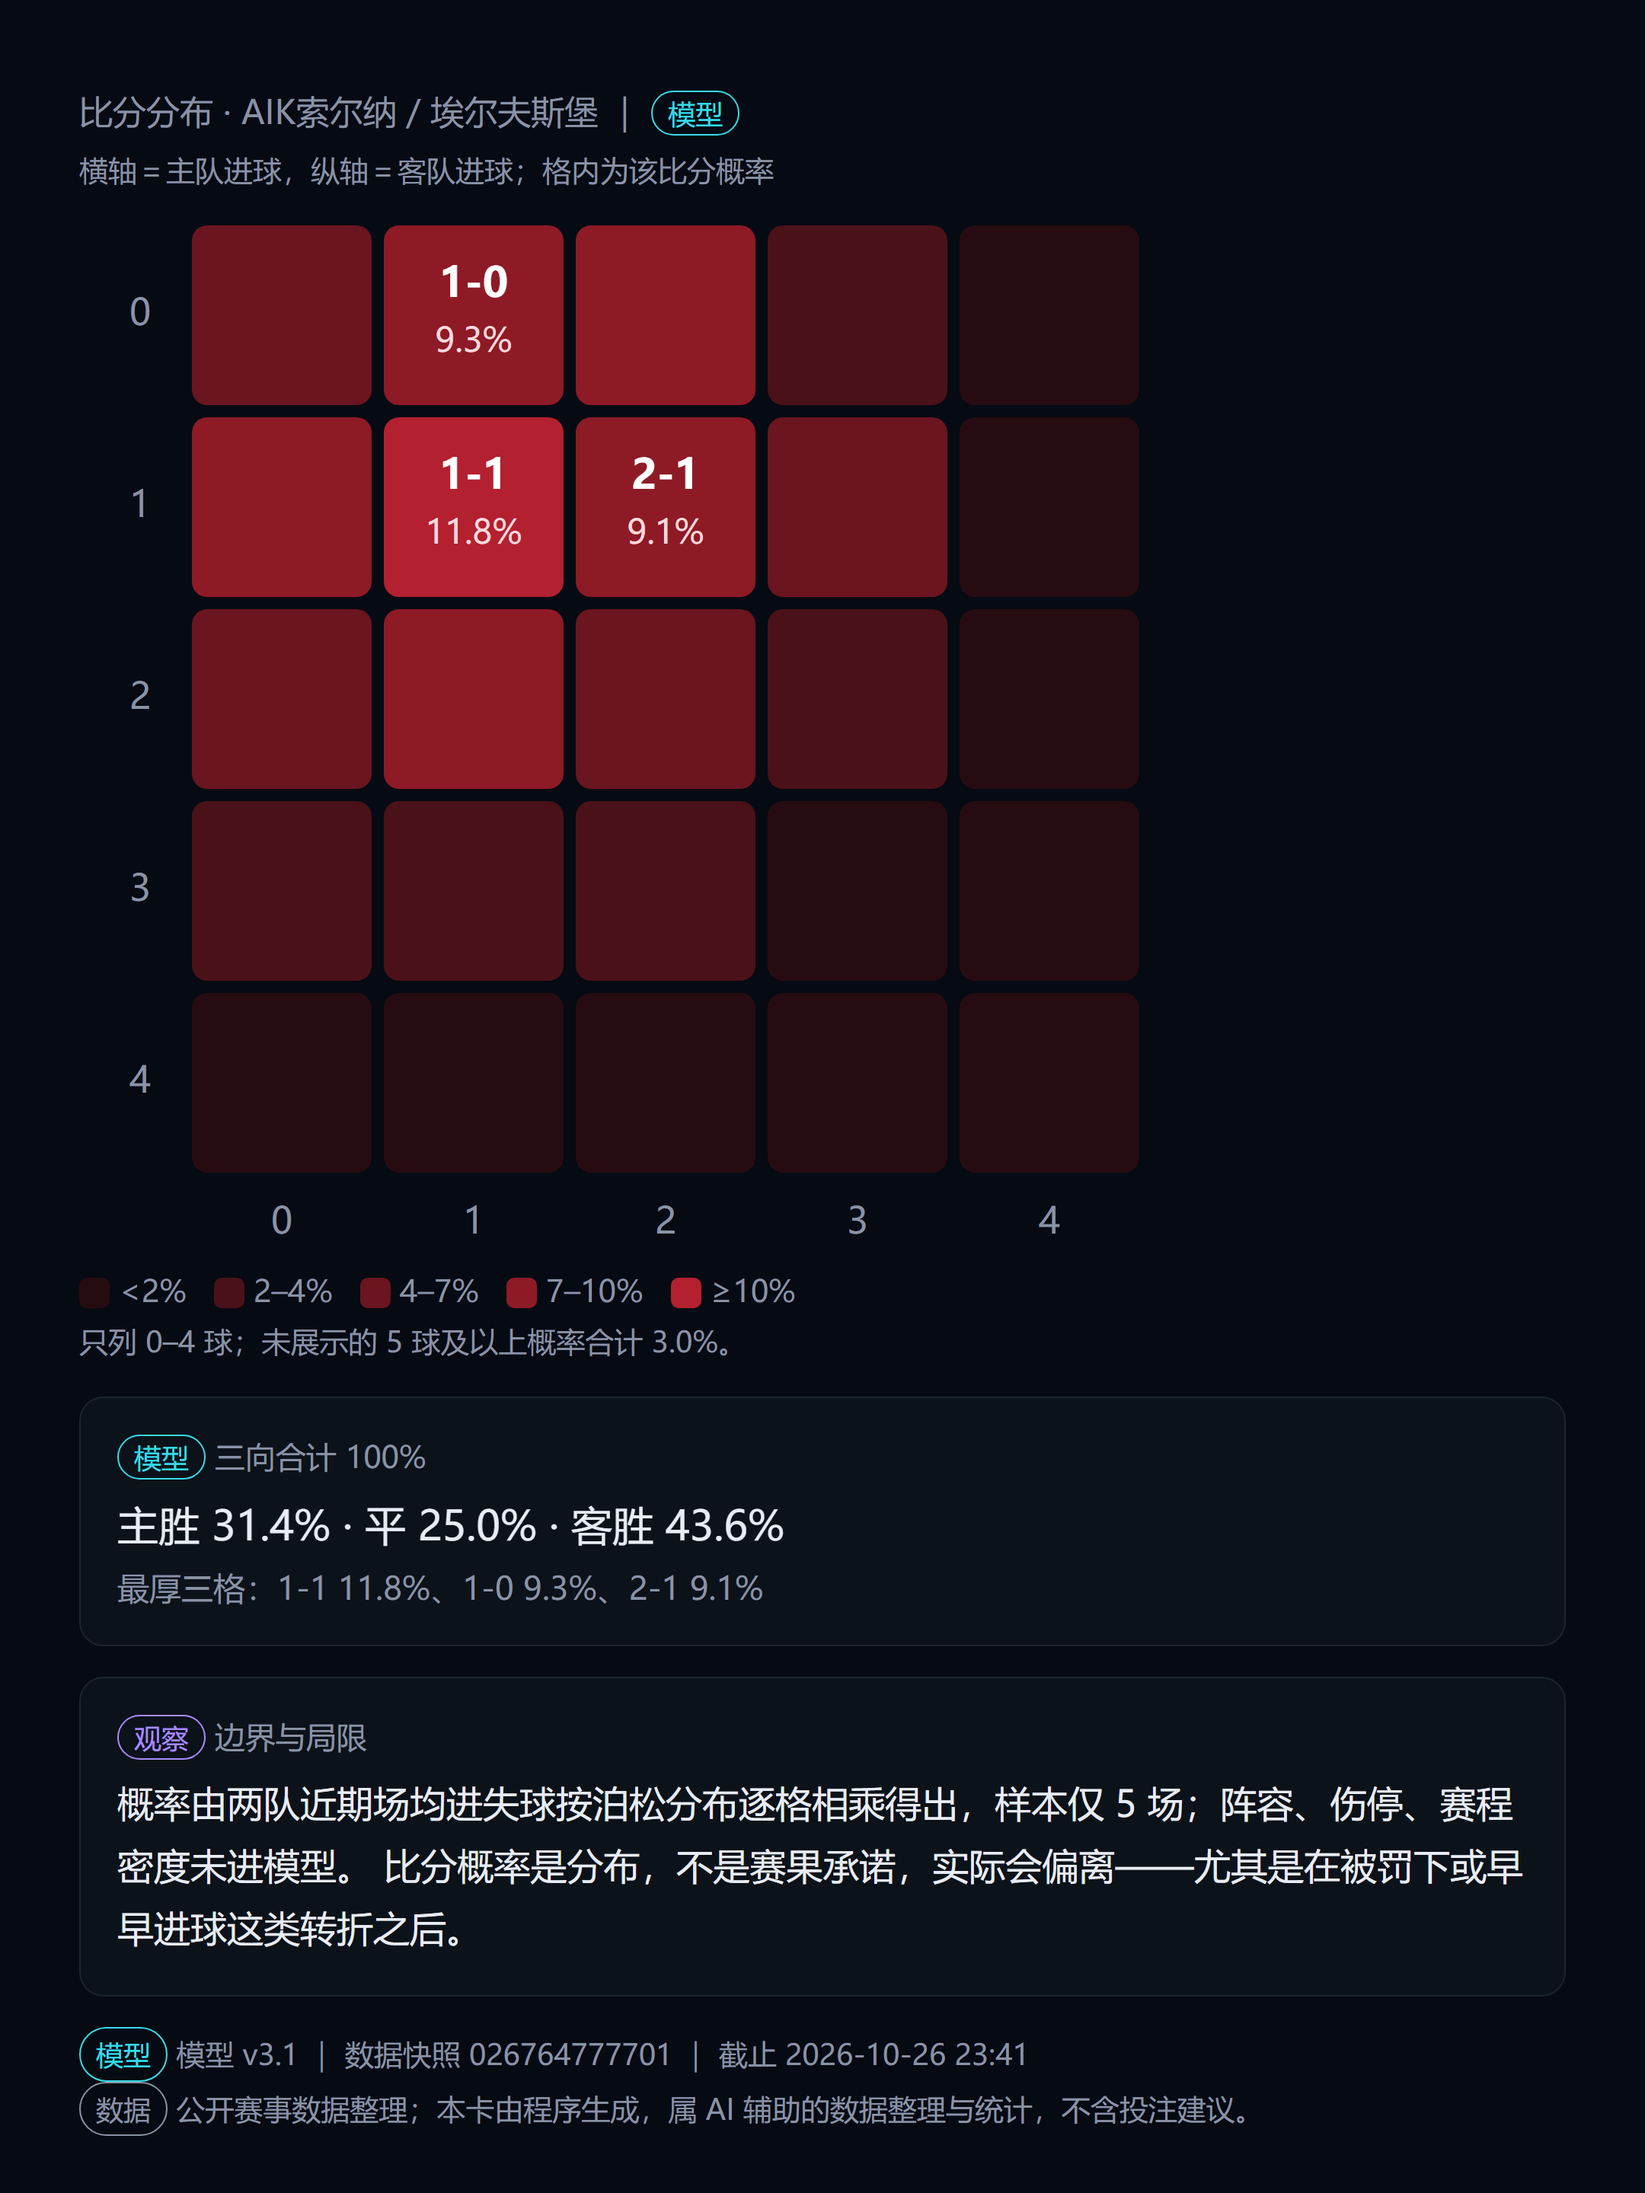
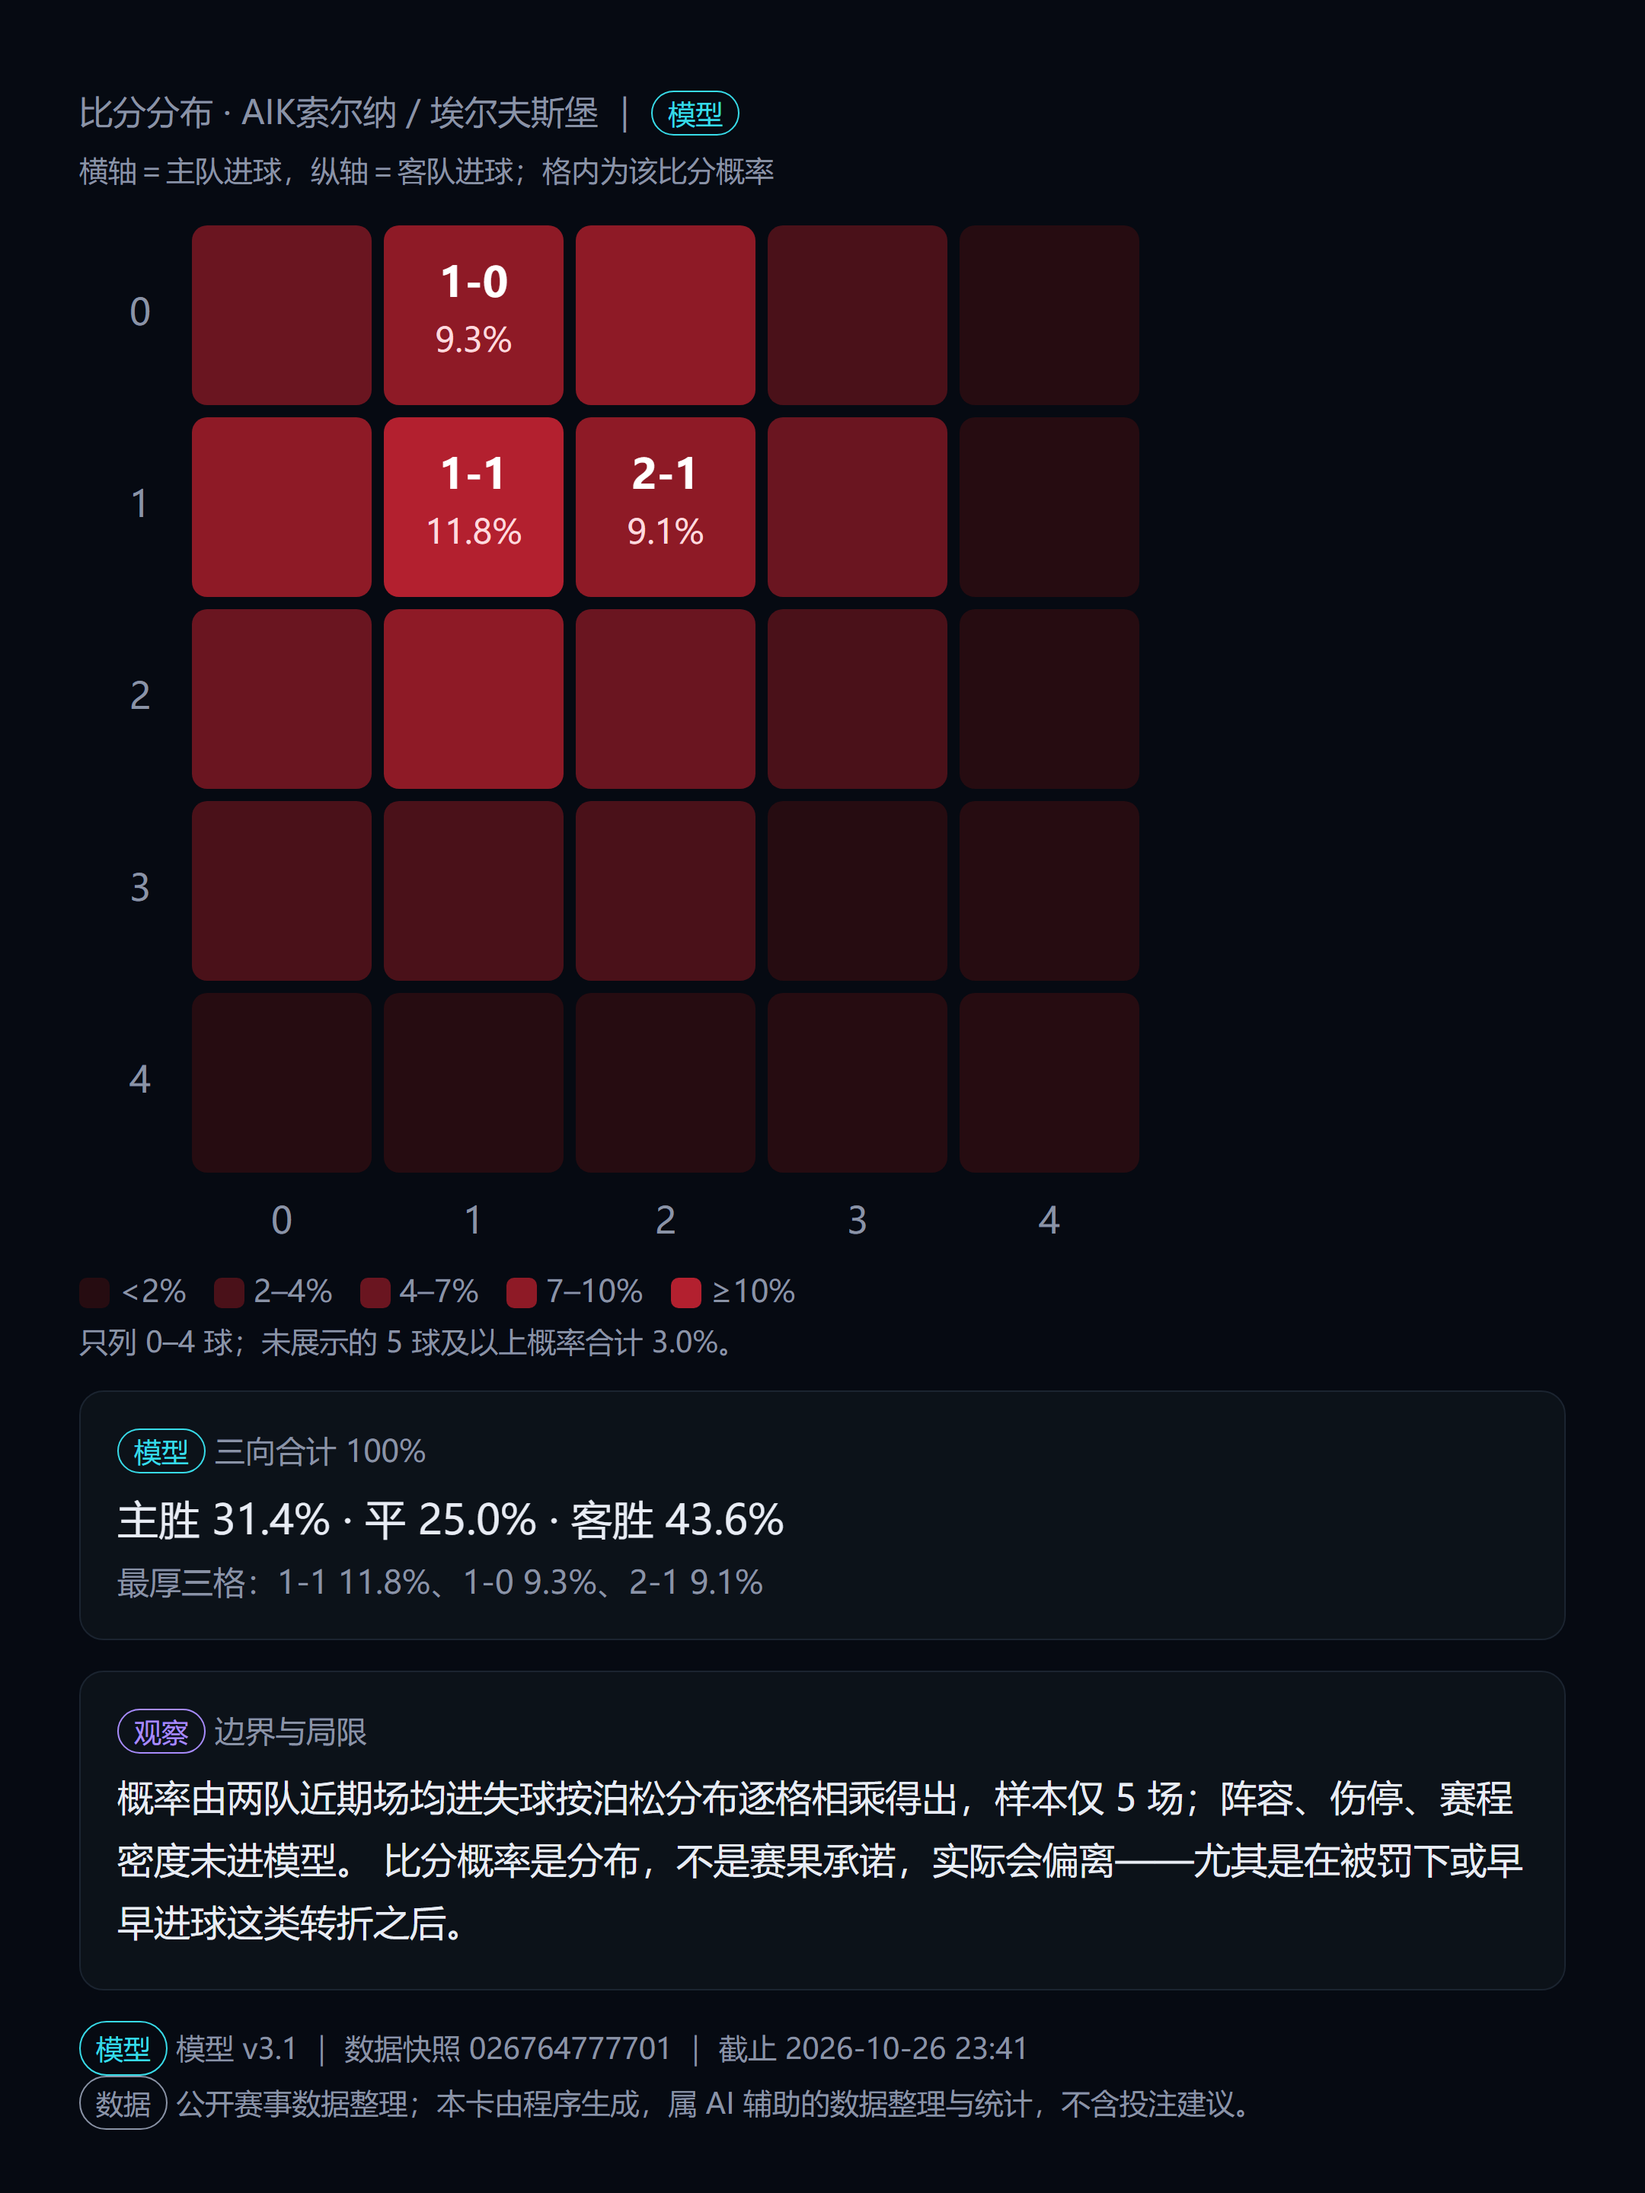
小红书数据卡 v2：P2 加入历史交锋（近N次胜负+场均+大小球+平局率），并列出同一来源另一统计窗口做对照；新增 C9 交锋自洽与 C10 窗口说明校验，进失球与胜负矛盾时降级只报胜负（006/010 已触发）

Changed region(s): [[0.031, 0.7812, 0.9306, 0.9688], [0.062, 0.6562, 0.4963, 0.75], [0.6514, 0.9375, 0.7444, 0.9688]]

diff --git a/scripts/xhs_card_v2.py b/scripts/xhs_card_v2.py
@@ -19,6 +19,7 @@ from __future__ import annotations
 import argparse
 import datetime as dt
 import json
+import re
 import math
 import statistics
 import sys
@@ -107,7 +108,7 @@ def grid_pct(lh: float, la: float, size: int = 5) -> list:
     return [[round(pois(i, lh) * pois(j, la) * 100, 2) for j in range(size)] for i in range(size)]
 
 
-def build(cur: dict, mid: str, meta: dict | None = None) -> dict:
+def build(cur: dict, mid: str, meta: dict | None = None, day: str = "") -> dict:
     row = cur["data"][mid]
     meta = meta or {}
     short = (meta.get("no") or "")[-3:]
@@ -119,6 +120,7 @@ def build(cur: dict, mid: str, meta: dict | None = None) -> dict:
             "league": meta.get("league", ""), "kick": meta.get("kick", ""), "no": meta.get("no", ""),
             "point": meta.get("point", ""), "hs": hs, "as": as_,
             "radar_home": radar_values(hs), "radar_away": radar_values(as_),
+            "h2h": h2h_block(row, day, mid),
             "wdl": [round(x * 100, 1) for x in (mod.get("three_fused") or [0, 0, 0])],
             "lam": lam, "grid": grid_pct(lam[0], lam[1]),
             "model_version": mod.get("model_version", "?"), "snapshot": mod.get("data_snapshot", "?"),
@@ -126,6 +128,30 @@ def build(cur: dict, mid: str, meta: dict | None = None) -> dict:
 
 
 def validate(c: dict) -> list:
+    out = _validate(c)
+    h = c.get("h2h") or {}
+    n = h.get("n") or 0
+    w, d, l = h.get("w"), h.get("d"), h.get("l")
+    if not n or None in (w, d, l):
+        out.append({"id": "C9", "name": "交锋内部自洽", "ok": False, "detail": "未取得可用交锋样本"})
+    else:
+        ok_n = (w + d + l == n) and ((h.get("over") or 0) + (h.get("under") or 0) == n)
+        degraded = bool(h.get("degraded"))
+        detail = "近 %d 次 %d 胜 %d 平 %d 负（胜平负合 %d）" % (n, w, d or 0, l, w + (d or 0) + l)
+        if degraded:
+            detail += "；进失球 %s-%s 与胜负矛盾，已降级只报胜负" % (h.get("gf"), h.get("ga"))
+        out.append({"id": "C9", "name": "交锋内部自洽", "ok": ok_n, "detail": detail})
+        if h.get("check_n"):
+            same = h["check_n"] == n
+            out.append({"id": "C10", "name": "交锋窗口说明", "ok": bool(same or "窗口不同" in h2h_note(c)),
+                        "detail": ("两个窗口同长（%d 次）" % n) if same else
+                                  ("主行近 %d 次 / 对照近 %d 次，卡面已写窗口差异" % (n, h["check_n"]))})
+        else:
+            out.append({"id": "C10", "name": "交锋窗口说明", "ok": True, "detail": "单一窗口，无需对照"})
+    return out
+
+
+def _validate(c: dict) -> list:
     hs, as_ = c["hs"], c["as"]
     chk = []
 
@@ -258,6 +284,59 @@ def delta_note(c: dict) -> str:
 
 
 
+
+def h2h_block(row: dict, day: str, mid: str) -> dict:
+    """交锋：主行取 500 交锋汇总（近 N 次），核对行取 500「对赛成绩」窗口。"""
+    h = row.get("h2h") or {}
+    s = h.get("summary") or {}
+    n = int(s.get("n") or 0)
+    txt = s.get("text") or ""
+    m = re.search(r"(\d+)胜(\d+)平(\d+)负", txt)
+    w, d, l = (int(m.group(1)), int(m.group(2)), int(m.group(3))) if m else (None, None, None)
+    hp = ROOT / "state" / "intel" / day / ("_h2h_" + day + ".json")
+    side = json.loads(hp.read_text(encoding="utf-8")) if hp.exists() else {}
+    chk = (side.get(mid) or {}).get("duisai") or ""
+    cm = re.search(r"(\d+)胜(\d+)和?(\d+)负", chk)
+    out = {"n": n, "w": w, "d": d, "l": l, "gf": s.get("gf"), "ga": s.get("ga"),
+           "over": s.get("over"), "under": s.get("under"), "check_raw": chk,
+           "check_n": None, "check_wdl": None}
+    if cm:
+        out["check_wdl"] = (int(cm.group(1)), int(cm.group(2)), int(cm.group(3)))
+        out["check_n"] = sum(out["check_wdl"])
+    if n and w is not None:
+        gd = (out["gf"] or 0) - (out["ga"] or 0)
+        wd = w - l
+        out["degraded"] = ((gd > 0) != (wd > 0)) or (gd == 0 and wd != 0)
+    if n:
+        out["avg"] = (out["gf"] or 0) + (out["ga"] or 0)
+        out["avg"] = round(out["avg"] / n, 2)
+        out["under_rate"] = round(100 * (out["under"] or 0) / n, 0)
+        out["draw_rate"] = round(100 * (d or 0) / n, 0) if d is not None else None
+    return out
+
+
+def h2h_text(c: dict) -> str:
+    h = c["h2h"]
+    if not h.get("n") or h.get("w") is None:
+        return "未取得可靠交锋记录，本卡不展示该段。"
+    base = "%s %d 胜 %d 平 %d 负（近 %d 次）" % (c["home"], h["w"], h["d"] or 0, h["l"], h["n"])
+    if h.get("degraded"):
+        return base + " ｜ 该来源进失球与胜负对不上，场均与大小球不展示"
+    return base + " ｜ 场均 %.2f 球 ｜ 小球 %d/%d ｜ 平局 %d%%" % (
+        h["avg"], h["under"] or 0, h["n"], h["draw_rate"] or 0)
+
+
+def h2h_note(c: dict) -> str:
+    h = c["h2h"]
+    parts = []
+    if h.get("check_n") and h["check_n"] != h["n"]:
+        cw, cd, cl = h["check_wdl"]
+        parts.append("对照：同一来源「对赛成绩」按近 %d 次统计为 %s %d 胜 %d 平 %d 负，窗口不同结论会变。"
+                     % (h["check_n"], c["home"], cw, cd, cl))
+    parts.append("跨赛季、主客不同，交锋只是背景，不等于本场。样本 %d 次。来源：500 交锋汇总，%s 取得。"
+                 % (h.get("n") or 0, c["cutoff"]))
+    return "".join(parts)
+
 def form_strip(c: dict) -> str:
     out = []
     for name, s, color in ((c["home"], c["hs"], GREEN), (c["away"], c["as"], RED)):
@@ -351,7 +430,11 @@ font-family:'Microsoft YaHei','PingFang SC',sans-serif">
 <div style="margin-top:40px;display:flex;justify-content:center">%(radar)s</div>
 <div style="margin-top:4px;color:%(dim)s;font-size:19px;line-height:1.6">%(formula)s。
 数值越高该维度越强；天蓝=%(home)s，红=%(away)s。</div>
-<div style="margin-top:24px;background:#0C1219;border:1px solid #1B2430;border-radius:16px;padding:22px 24px">
+<div style="margin-top:22px;background:#0C1219;border:1px solid #1B2430;border-radius:16px;padding:20px 22px">
+<div style="color:%(dim)s;font-size:20px">%(to)s 历史交锋 ｜ 近 %(h2hn)s 次各项赛事</div>
+<div style="margin-top:10px;font-size:26px;line-height:1.5">%(h2h_main)s</div>
+<div style="margin-top:8px;font-size:21px;color:%(dim)s;line-height:1.6">%(h2h_sub)s</div></div>
+<div style="margin-top:20px;background:#0C1219;border:1px solid #1B2430;border-radius:16px;padding:22px 24px">
 <div style="color:%(dim)s;font-size:20px">%(to)s 对照观察</div>
 <div style="margin-top:8px;font-size:24px;line-height:1.65">%(delta)s</div>
 <div style="margin-top:8px;font-size:21px;color:%(dim)s;line-height:1.6">%(rmiss)s样本 %(hn)d 场，近期状态不等于本场必然表现。</div></div>
@@ -360,7 +443,8 @@ font-family:'Microsoft YaHei','PingFang SC',sans-serif">
              "home": esc(c["home"]), "away": esc(c["away"]), "rows": rows, "radar": radar_svg(c),
              "formula": esc(RADAR_FORMULA), "hn": hs.get("n", 0), "cutoff": esc(c["cutoff"]),
              "td": tag("数据"), "to": tag("观察"), "delta": esc(delta_note(c)),
-             "rmiss": (esc(radar_missing_note(c)) + "，") if radar_missing_note(c) else ""})
+             "rmiss": (esc(radar_missing_note(c)) + "，") if radar_missing_note(c) else "",
+             "h2h_main": esc(h2h_text(c)), "h2h_sub": esc(h2h_note(c)), "h2hn": c["h2h"]["n"]})
 
 
 def page3(c: dict) -> str:
@@ -373,7 +457,7 @@ font-family:'Microsoft YaHei','PingFang SC',sans-serif">
 <div style="margin-top:10px;font-size:19px;color:%(dim)s">横轴＝主队进球，纵轴＝客队进球；格内为该比分概率</div>
 <div style="margin-top:16px">%(heat)s</div>
 <div style="margin-top:8px;color:%(dim)s;font-size:19px">只列 0–4 球；未展示的 5 球及以上概率合计 %(rest).1f%%。</div>
-<div style="margin-top:24px;background:#0C1219;border:1px solid #1B2430;border-radius:16px;padding:24px">
+<div style="margin-top:20px;background:#0C1219;border:1px solid #1B2430;border-radius:16px;padding:24px">
 <div style="color:%(dim)s;font-size:20px">%(tm)s 三向合计 100%%</div>
 <div style="margin-top:8px;font-size:27px;line-height:1.6">主胜 %(h).1f%% · 平 %(d).1f%% · 客胜 %(a).1f%%</div>
 <div style="color:%(dim)s;font-size:21px;margin-top:6px">最厚三格：%(tops)s</div></div>
@@ -414,6 +498,7 @@ def main() -> None:
     ap.add_argument("--no-score-pct", action="store_true", help="比分格只上色不标数字（旧口径）")
     a = ap.parse_args()
 
+    day = a.day
     cur = load(a.day)
     out = ROOT / a.out
     out.mkdir(parents=True, exist_ok=True)
@@ -429,7 +514,7 @@ def main() -> None:
         meta = metas.get((r.get("home"), r.get("away")), {})
         if only and meta.get("no", "")[-3:] not in only:
             continue
-        c = build(cur, mid, meta)
+        c = build(cur, mid, meta, day=day)
         c["show_pct"] = not a.no_score_pct
         chk = validate(c)
         hard = [x for x in chk if not x["ok"] and x["id"] in ("C1", "C2", "C5", "C7", "C8")]

diff --git a/📝文章/20261027/小红书卡v2/检查报告.md b/📝文章/20261027/小红书卡v2/检查报告.md
@@ -14,6 +14,8 @@
 | C6 热力轴与队序一致 | 通过 | 横轴=主队进球 · 纵轴=客队进球 · 队序同卡头 |
 | C7 模型版本与快照同源 | 通过 | v3.1 / 快照 026764777701 |
 | C8 缺失不填 0 | 通过 | 无缺失；未取得项写「未取得」 |
+| C9 交锋内部自洽 | 通过 | 近 6 次 3 胜 1 平 2 负（胜平负合 6）；进失球 11-11 与胜负矛盾，已降级只报胜负 |
+| C10 交锋窗口说明 | 通过 | 主行近 6 次 / 对照近 10 次，卡面已写窗口差异 |
 
 - 平台内容风险：需人工复核（比分概率属数据解读；不得附投注/带单/引流）
 - 结论：可出图
@@ -30,6 +32,8 @@
 | C6 热力轴与队序一致 | 通过 | 横轴=主队进球 · 纵轴=客队进球 · 队序同卡头 |
 | C7 模型版本与快照同源 | 通过 | v3.1 / 快照 026764777701 |
 | C8 缺失不填 0 | 通过 | 无缺失；未取得项写「未取得」 |
+| C9 交锋内部自洽 | 通过 | 近 6 次 4 胜 1 平 1 负（胜平负合 6） |
+| C10 交锋窗口说明 | 通过 | 主行近 6 次 / 对照近 10 次，卡面已写窗口差异 |
 
 - 平台内容风险：需人工复核（比分概率属数据解读；不得附投注/带单/引流）
 - 结论：可出图
@@ -46,6 +50,8 @@
 | C6 热力轴与队序一致 | 通过 | 横轴=主队进球 · 纵轴=客队进球 · 队序同卡头 |
 | C7 模型版本与快照同源 | 通过 | v3.1 / 快照 026764777701 |
 | C8 缺失不填 0 | 通过 | 无缺失；未取得项写「未取得」 |
+| C9 交锋内部自洽 | 通过 | 近 6 次 3 胜 0 平 3 负（胜平负合 6） |
+| C10 交锋窗口说明 | 通过 | 主行近 6 次 / 对照近 4 次，卡面已写窗口差异 |
 
 - 平台内容风险：需人工复核（比分概率属数据解读；不得附投注/带单/引流）
 - 结论：可出图
@@ -62,6 +68,8 @@
 | C6 热力轴与队序一致 | 通过 | 横轴=主队进球 · 纵轴=客队进球 · 队序同卡头 |
 | C7 模型版本与快照同源 | 通过 | v3.1 / 快照 026764777701 |
 | C8 缺失不填 0 | 通过 | 无缺失；未取得项写「未取得」 |
+| C9 交锋内部自洽 | 通过 | 近 6 次 3 胜 3 平 0 负（胜平负合 6） |
+| C10 交锋窗口说明 | 通过 | 主行近 6 次 / 对照近 10 次，卡面已写窗口差异 |
 
 - 平台内容风险：需人工复核（比分概率属数据解读；不得附投注/带单/引流）
 - 结论：可出图

diff --git a/📝文章/20261027/小红书卡v2/文案.md b/📝文章/20261027/小红书卡v2/文案.md
@@ -12,7 +12,7 @@
 
 瑞超最后一轮，索尔纳客场排第三、主场排第十二，同一支队两张脸；埃尔夫斯堡客场十三场只丢九个。
 
-三张图分别是：总览与观察、数据对照、比分分布与局限。数字都标了口径和截止时间，比分概率只是分布，不是承诺。
+第 2 张里有历史交锋：近 6 次 3 胜 1 平 2 负这类记录，也把同一来源按 10 次统计的另一组数摆在一起——窗口一换结论就变，这点比单看一个比分有意义。数字都标了口径和截止时间，比分概率只是分布，不是承诺。
 
 你更信数据还是更信眼睛？
 
